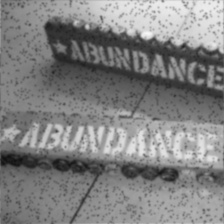
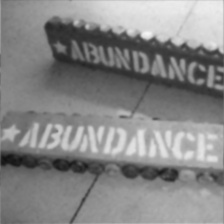
Add median pre-filter for image 3 to remove salt-and-pepper noise
https://claude.ai/code/session_016JHPkr7VWyQ7xr5h2rr9Q9

diff --git a/project1_solution/make_report.py b/project1_solution/make_report.py
@@ -83,10 +83,12 @@ body(
     'add to 1. Then I apply it by doing a weighted sum over each pixel neighborhood.'
 )
 body(
-    'For image 3 the dots look like they repeat in a pattern so I think it is '
-    'periodic noise. I use frequency domain filter. I take the FFT of the image, '
-    'put a gaussian low pass mask in the center to remove high frequencies, '
-    'then do inverse FFT to get the clean image back.'
+    'For image 3 it is more difficult because it has two kind of noise together. '
+    'There is salt and pepper dots, and also a repeating pattern. So I do it in two '
+    'step. First I use a 3x3 median filter to remove the dots, because median is good '
+    'for impulse noise. After that I use frequency domain filter: I take the FFT, put '
+    'a gaussian low pass mask in the center to remove the high frequencies, then do '
+    'inverse FFT to get the clean image back.'
 )
 
 # ---- section 3 ----
@@ -105,11 +107,13 @@ body(
     'but the image become more blurry, so there is a tradeoff.'
 )
 body(
-    'For image 3 the repeating dot pattern is mostly gone and the text is readable. '
-    'The advantage of frequency domain method is that it can target periodic noise '
-    'directly because it show up as specific spots in the spectrum. The disadvantage '
-    'is that choosing the right cutoff value need some trial and error, and if the '
-    'cutoff is too small the image become too blurry.'
+    'For image 3 the result is much better after I add the median step. At first I '
+    'only use the frequency filter but the pepper dots was still there, because '
+    'frequency low pass can not remove impulse noise. After I add the median filter '
+    'first, the dots are gone and then the frequency filter smooth the rest. Now the '
+    'text "ABUNDANCE" is clear and readable. The disadvantage of doing two step is '
+    'that it take more time, and choosing the cutoff value still need some trial and '
+    'error.'
 )
 
 # ---- section 4 ----

diff --git a/project1_solution/denoise.py b/project1_solution/denoise.py
@@ -69,14 +69,29 @@ cv2.imwrite('output_2.jpeg', clean2)
 print('image 2 done')
 
 
-# ---- image 3: repeating dot pattern, so i used frequency domain filter ----
+# ---- image 3: it has salt and pepper dots AND a repeating pattern ----
+# so first i do median to remove the dots, then frequency filter for the rest
 
 pic3 = cv2.imread('Picture_P1/3.jpg', cv2.IMREAD_GRAYSCALE)
 rows = pic3.shape[0]
 cols = pic3.shape[1]
 
-# go to frequency domain
-freq = np.fft.fft2(pic3.astype(float))
+# step 1: median filter 3x3 to remove the salt and pepper noise
+denoised = np.zeros((rows, cols), dtype=np.uint8)
+half = 1
+for i in range(rows):
+    for j in range(cols):
+        neighbors = []
+        for di in range(-half, half+1):
+            for dj in range(-half, half+1):
+                ni = min(max(i+di, 0), rows-1)
+                nj = min(max(j+dj, 0), cols-1)
+                neighbors.append(int(pic3[ni, nj]))
+        neighbors.sort()
+        denoised[i, j] = neighbors[len(neighbors)//2]
+
+# step 2: go to frequency domain to clean the rest
+freq = np.fft.fft2(denoised.astype(float))
 freq_centered = np.fft.fftshift(freq)
 
 # make gaussian low pass mask, center is at (cy, cx)
